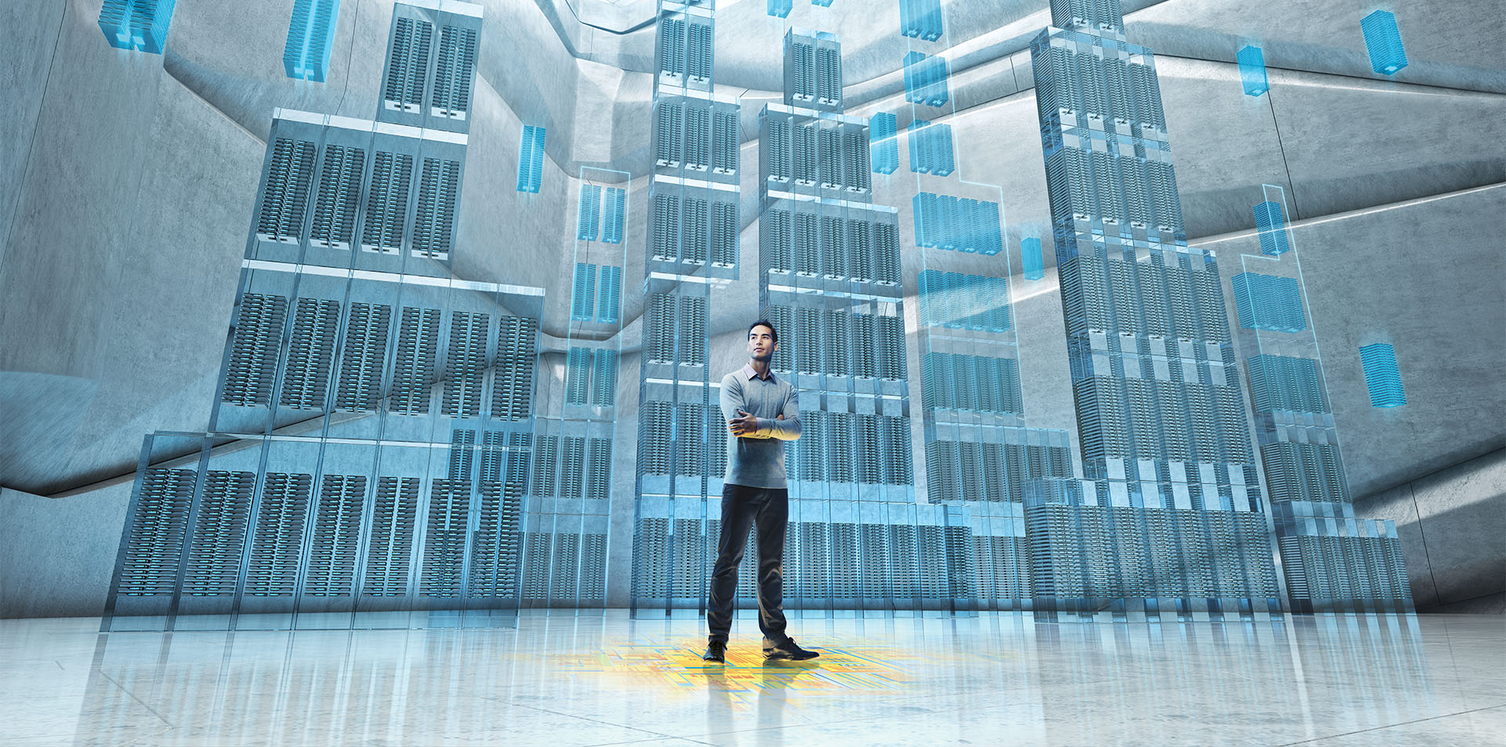
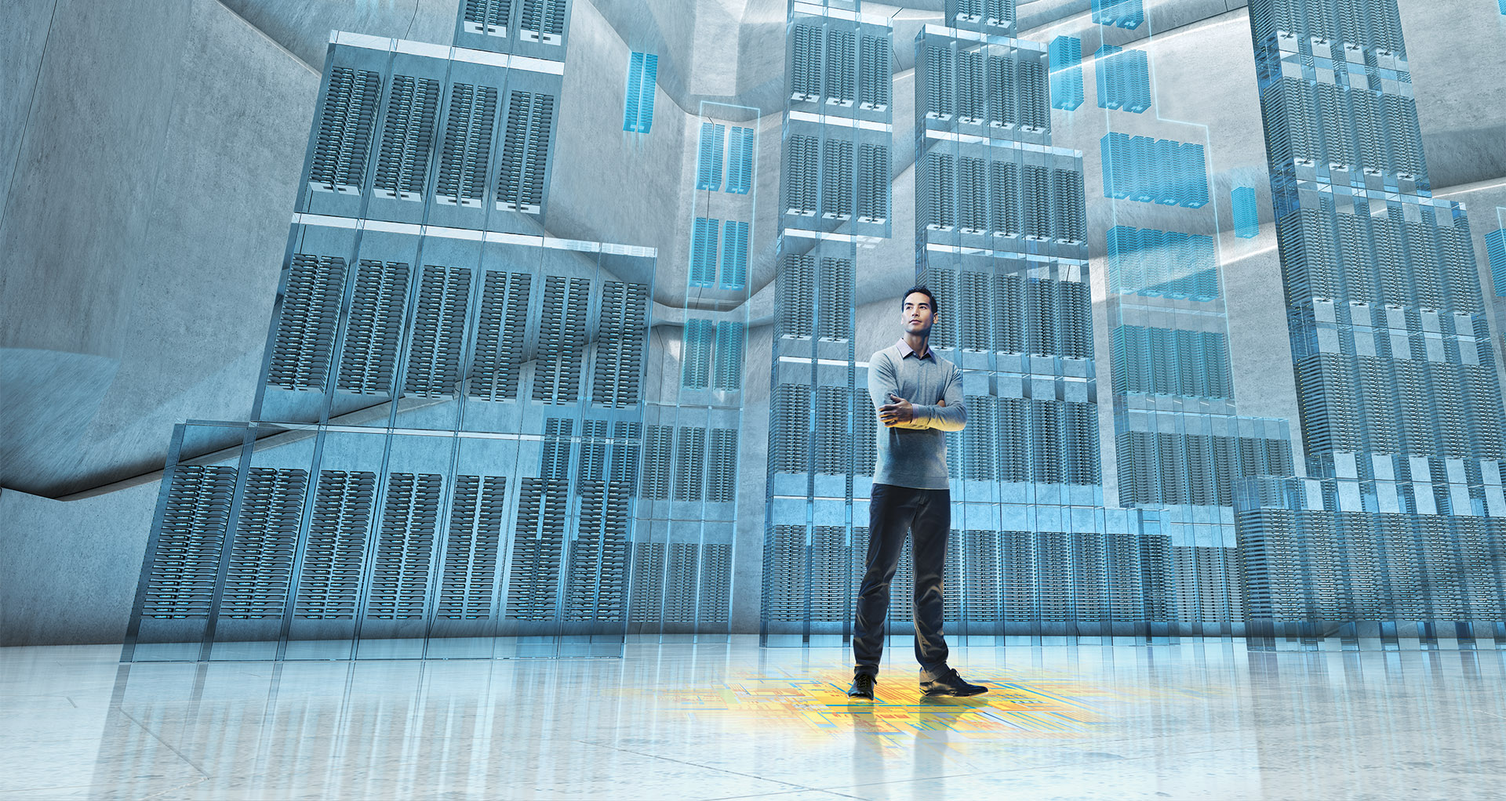
responsiveness issues fixed for home page.

diff --git a/tribeca-web/public/stylesheets/Tribeca_blue.css b/tribeca-web/public/stylesheets/Tribeca_blue.css
@@ -5644,7 +5644,7 @@ body {
 #wrapper {
   background-repeat: no-repeat;
   background-position: center 0;
-  background-image: url("../images/carousel/datacenter.jpg"); }
+  background-image: transparent; }
   @media (min--moz-device-pixel-ratio: 1.3), (-o-min-device-pixel-ratio: 2.6 / 2), (-webkit-min-device-pixel-ratio: 1.3), (min-device-pixel-ratio: 1.3), (min-resolution: 1.3dppx) {
     #wrapper {
       background-image: url("../images/bg_wrapper@2x.jpg");

diff --git a/tribeca-web/public/stylesheets/custom.css b/tribeca-web/public/stylesheets/custom.css
@@ -83,11 +83,19 @@
 
 .carousel-blur, .carousel-blur .item {
     height: 850px;
+
+
 }
 
 .carousel-blur .item {
     text-align: center;
     padding-top: 150px;
+    background-position: center;
+    background-repeat: no-repeat;
+    background-size: auto;
+    min-height:550px;
+    max-height:950px;
+
 }
 
 .btn-primary {
